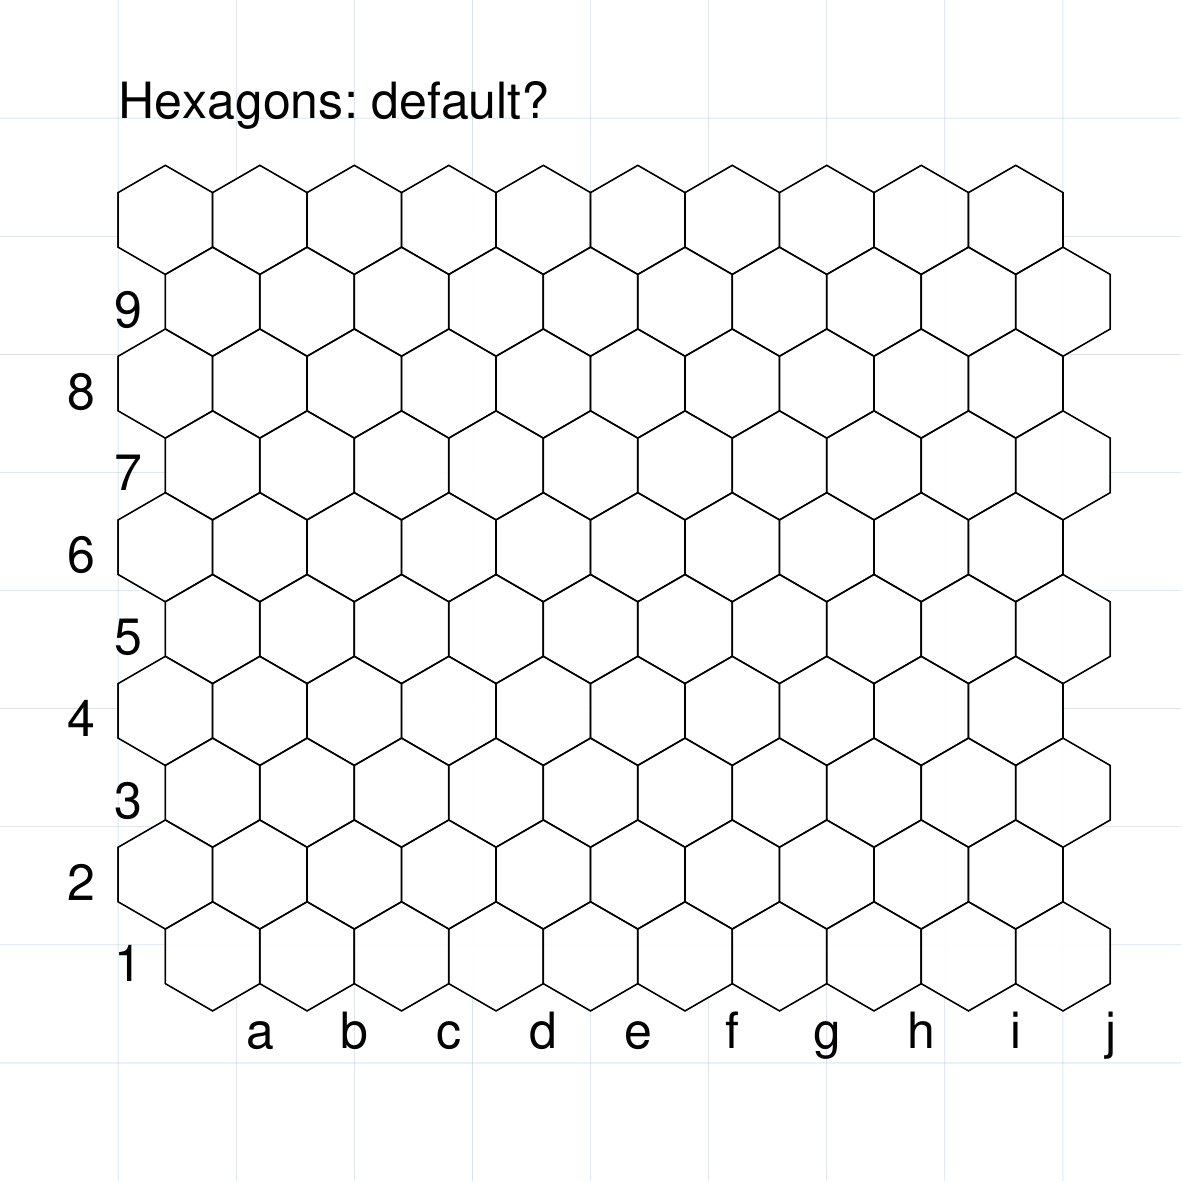
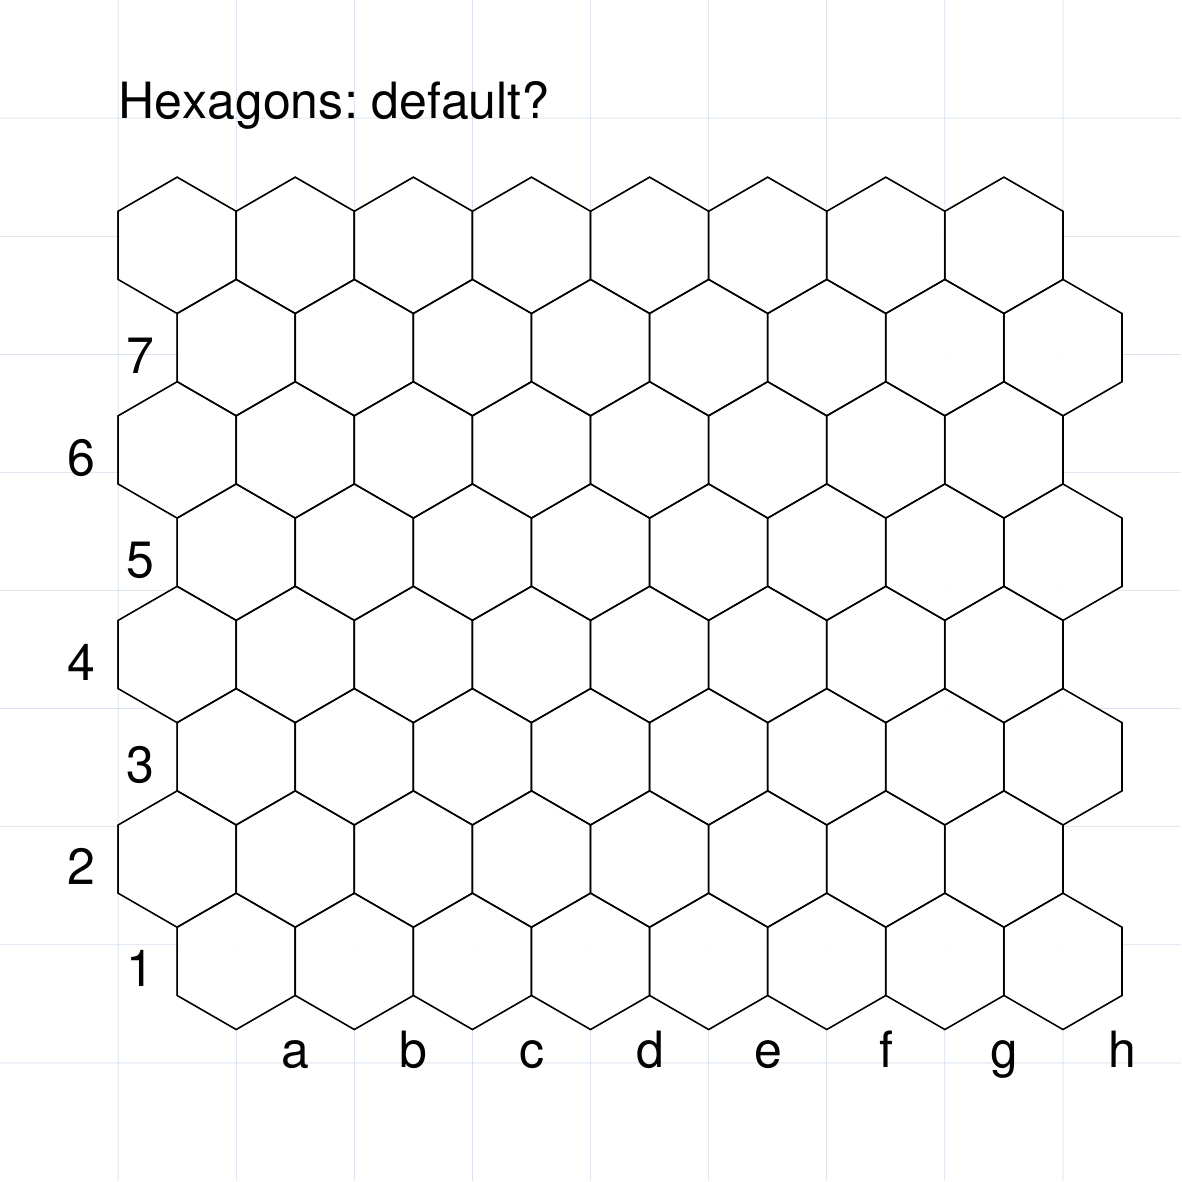
WIP on hexhex board

diff --git a/protograf/objects/abstracts.py b/protograf/objects/abstracts.py
@@ -86,6 +86,9 @@ class AbstractGameObject(BaseShape):
         self.pieces_resize = tools.as_float(
             kwargs.get("pieces_resize", 1.0), "pieces_resize"
         )  # scaling??? # TODO - process this!
+        if not kwargs.get("side"):
+            self.side = 2  # override default in base.py
+        self.side = tools.as_int(self.side, "side", minimum=2, allow_none=True)
         # ---- custom /interal properties
         if not kwargs.get("stroke"):
             self.stroke = None
@@ -126,10 +129,37 @@ class AbstractGameObject(BaseShape):
         Args:
             side (int): number of hexagons along an edge
         """
-        size = side * 2 - 1
-        for rows in (1, size + 1):
-            for cols in (1, size + 1):
-                pass
+
+        def _split_gap(number: int):
+            if number % 2 != 0:  # odd
+                return number // 2, number // 2 + 1
+            else:  # even
+                return number // 2, number // 2
+
+        width = side * 2 - 1
+        row_size = side
+        add = True
+        hexes = ""
+        even = 0
+        while True:
+            gap = width - row_size
+            small, big = _split_gap(gap)
+            prefix = " " if even else ""
+            if side % 2 != 0:  # odd side
+                hexes += prefix + ". " * small + "O " * row_size + ". " * big + "\n"
+            else:  # even side
+                hexes += prefix + ". " * big + "O " * row_size + ". " * small + "\n"
+            even = 1 if even != 1 else 0
+            if add:
+                row_size += 1
+            else:
+                row_size -= 1
+            if row_size == width:
+                add = False
+            if row_size < side:
+                break
+        # print(f'&&& {hexes=}')
+        return hexes
 
     def game_name_error(self):
         """Generate feedback if incorrect game name used."""
@@ -267,17 +297,9 @@ class AbstractGameObject(BaseShape):
                 self.board_type = "hexagonal"
                 self.label_start = "BL"
                 self.label_type = "AN"
-                self.board_type = "hexagonal"
-                # TODO - calc rows and cols from side
-                self.rows = 5
-                self.cols = 5
-                self.pattern = """
-                . O O O .
-                 O O O O .
-                O O O O O
-                 O O O O .
-                . O O O .
-                """
+                self.rows = self.side * 2 - 1
+                self.cols = self.side * 2 - 1
+                self.pattern = self.hexhex_pattern(side=self.side)
             case "tri" | "triangle" | "triangular":
                 self.board_type = "tri"
                 if self.fills is None:
@@ -413,6 +435,22 @@ class AbstractGameObject(BaseShape):
                         True,
                         True,
                     )
+                else:
+                    if not self.side.is_integer():
+                        feedback(
+                            "The 'side' value (hexagons along an edge) must be an"
+                            " integer for an AbstractBoard of type 'hexhex'",
+                            True,
+                            True,
+                        )
+                    self.side = int(self.side)
+                    if self.side < 2:
+                        feedback(
+                            "The 'side' value (hexagons along an edge) must be more"
+                            " than 2 for an AbstractBoard of type 'hexhex'",
+                            True,
+                            True,
+                        )
             case _:
                 pass
 
@@ -752,10 +790,13 @@ class AbstractGameObject(BaseShape):
             case "hexagonal":
                 # TODO - pass 'shapes' into Hexagons for drawing e.g. circles
                 colr = self.fills[0] if self.fills else "white"
+                x_offset = -0.5 * self.cell_size
+                if self.name == "hexhex" and self.side % 2 == 0:
+                    x_offset = -self.cell_size
                 self.board_layout = Hexagons(
                     cols=self.cols,
                     rows=self.rows,
-                    x=top_x - 0.5 * self.cell_size,
+                    x=top_x + x_offset,
                     y=top_y,
                     orientation=HexOrientationName.POINTY.value,  # hard-coded: HexGrid
                     _draw_grid=False,

diff --git a/docs/source/objects/abstracts.rst b/docs/source/objects/abstracts.rst
@@ -159,9 +159,9 @@ Other useful properties that can be set for an AbstractGame are:
     * *cols*: ``8`` (the same as Chess or Checkers board)
     * *pieces*: ``checkers`` (simple black and white circles)
 
-    Note also that the definitions of the board and pieces are **not** the
-    determinants of where the pieces get placed; how many pieces there are,
-    or what the rules are for their movement!
+    Note also that the definitions of the board and pieces are **not**,
+    generally speaking, the determinants of where the pieces get placed;
+    how many pieces there are, or what the rules are for their movement!
 
 
 .. _abstractGameGrid:
@@ -319,7 +319,8 @@ The term "hexhex" refers to a hexagonal grid that itself appears to look like
 a hexagon.
 
 This type of board is constructed by specifying the number of hexagons that
-appear along the edge or *side* of such a grid; the minimum vale being ``2``.
+appear along the edge or *side* of such a grid; the minimum |dash| and
+default |dash| value being ``2``.
 
 .. |ah3| image:: ../images/objects/abstracts_hexagons_hexhex.png
    :width: 330
